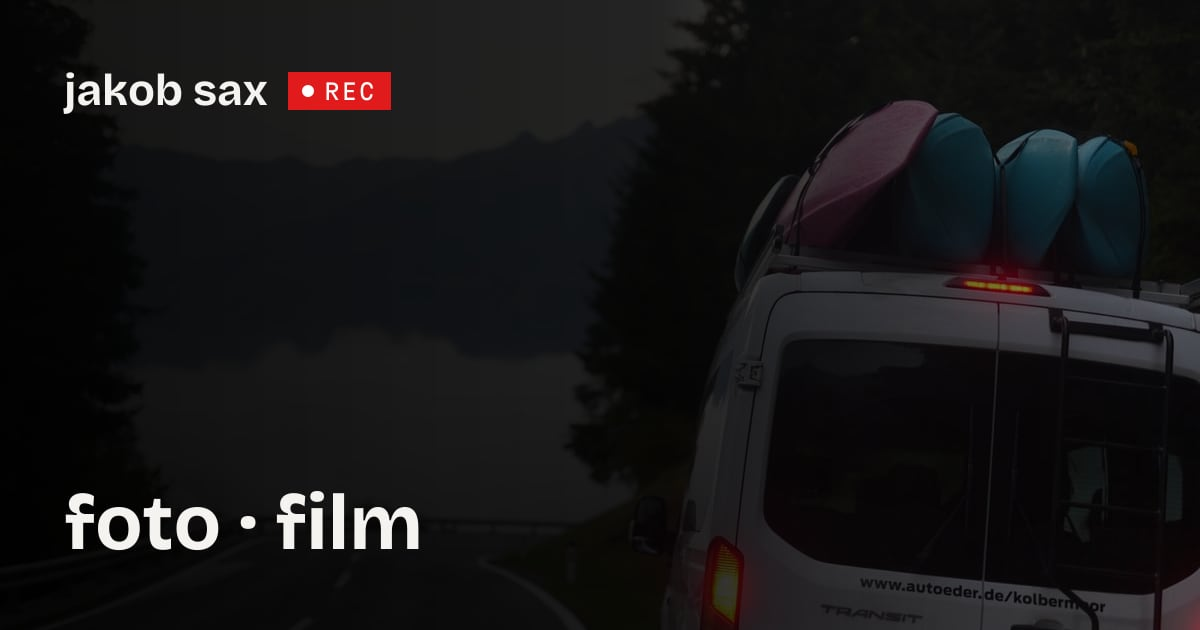
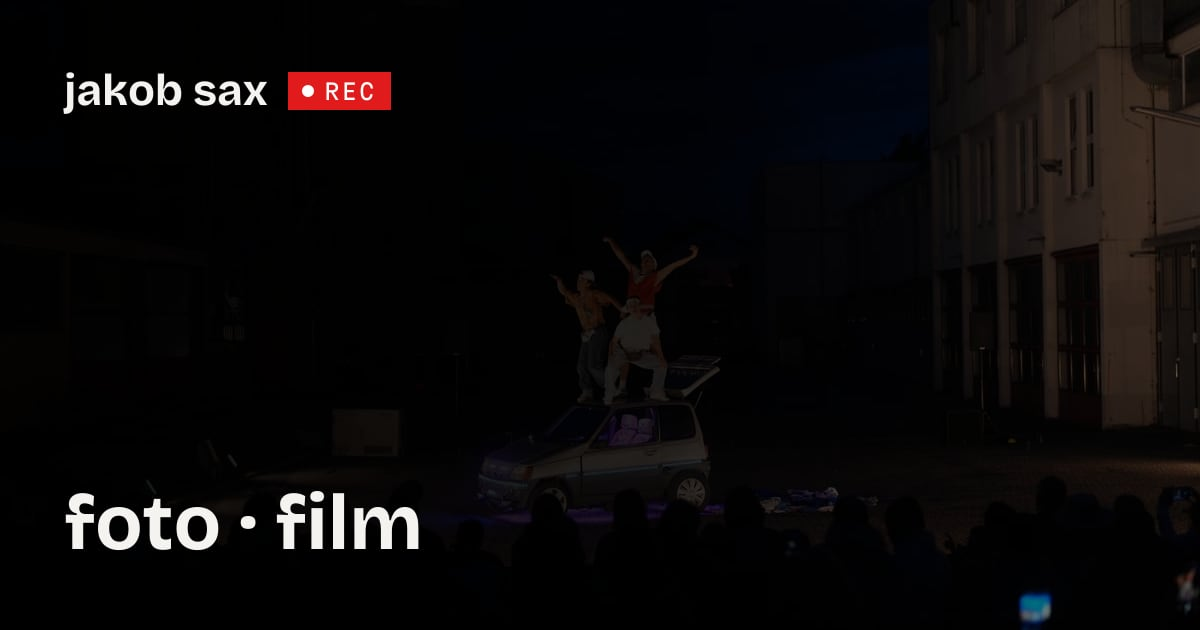
WiWaWo 2026: sechs Bilder ausgeblendet, neues Startseiten-Bild
Neues Feld `ausblenden` an Fotoarbeit; Bilder bleiben im Bucket.
HERO_ERSATZ -> tete-a-tete/01, WEGE.foto -> wiwawo-53/08, OG-Karte neu.

diff --git a/lib/content.ts b/lib/content.ts
@@ -44,14 +44,16 @@ export const HERO_ALT: string | null = null;
  * Eine schwarze Fläche ist als erster Eindruck einer Seite, die durch Bilder
  * überzeugen soll, das Schwächste, was es gibt. Gewählt nach drei Regeln
  * (UI-SPEC, „Bildbehandlung"): Querformat, keine erkennbaren Gesichter, trägt
- * auch hinter dem Schriftzug. Bei `wiwawo-53` erfüllt das nur Bild 06 (Bus an
- * der Bergstraße, Nebel im Tal).
+ * auch hinter dem Schriftzug. Bis 2026-10-15 war das der Bus an der
+ * Bergstraße (`wiwawo-53/06`) — den hat Jakob ausgeblendet. Seitdem SPPI bei
+ * Nacht: Querformat, dunkel, die Figuren klein und ohne erkennbare Gesichter.
  *
  * ⚠ Eine Wahl von Claude, **nicht von Jakob** — er entscheidet. Sobald
  * `hero/standbild` im Bucket liegt, hat das Vorrang, und dieser Wert ist
- * wirkungslos. `null` schaltet den Ersatz ab.
+ * wirkungslos. `null` schaltet den Ersatz ab. Ein ausgeblendetes Bild
+ * (`ausblenden`) wirkt hier nicht — dann bliebe die Startseite schwarz.
  */
-export const HERO_ERSATZ: string | null = "arbeiten/wiwawo-53/06";
+export const HERO_ERSATZ: string | null = "arbeiten/tete-a-tete/01";
 
 export const SITE = {
   /** Schriftzug und Wortmarke — bewusst kleingeschrieben (UI-SPEC, E7). */
@@ -72,7 +74,8 @@ export const SITE = {
  * zeigt eine dunkle Fläche mit ▶.
  */
 export const WEGE: { foto: string | null; film: string | null } = {
-  foto: "arbeiten/wiwawo-53/05",
+  /* Bis 2026-10-15 `wiwawo-53/05` (grünes Boot) — von Jakob ausgeblendet. */
+  foto: "arbeiten/wiwawo-53/08",
   film: null,
 };
 
@@ -108,7 +111,6 @@ export const HIGHLIGHTS: (string | null)[] = [
 export const FOTO_HERO: string[] = [
   "arbeiten/at-tension", // Cie. Dyptik — Körper fliegen über dem Publikum
   "arbeiten/welttheater-der-strasse", // Commando Percu — rotes Feuer
-  "arbeiten/wiwawo-53/06", // Bus an der Bergstraße, Nebel im Tal
   "arbeiten/tete-a-tete/01", // SPPI — Bühne bei Nacht, Querformat
   "arbeiten/welttheater-der-strasse/04", // Collectif Malunés — Trapez im Gegenlicht
   "arbeiten/wiwawo-52", // Boot in der Walze
@@ -160,6 +162,13 @@ export type Fotoarbeit = {
    * ohne Information über das Motiv.
    */
   alt?: Record<string, string>;
+  /**
+   * Bilder, die im Bucket liegen, aber **nicht auf die Seite** sollen —
+   * Namen wie bei `alt` (`"leitbild"`, `"01"`, …). Fehlt das Leitbild, wird
+   * das erste übrige Bild zum Startbild der Arbeit. Zum Wieder-Einblenden
+   * den Namen streichen; die Datei bleibt dafür im Bucket.
+   */
+  ausblenden?: string[];
 };
 
 /**
@@ -269,6 +278,10 @@ export const FOTOS: Fotoarbeit[] = [
       "05": "Kajakfahrer im grünen Boot mit rotem Paddel auf einem Fluss mit Kiesufer",
       "06": "Weißer Kleinbus mit Kajaks auf dem Dach an einer Bergstraße, im Tal liegt Nebel",
     },
+    /* Jakob am 2026-10-15 (über Jan): Gruppenfoto, Lagerfeuer, die drei
+       Boote im Wildwasser und den Bus „rausschmeißen". Bleiben 01, 07, 08;
+       Startbild ist damit der Wasserfall (01). */
+    ausblenden: ["leitbild", "02", "03", "04", "05", "06"],
   },
   {
     id: "wiwawo-52",

diff --git a/lib/arbeiten.test.ts b/lib/arbeiten.test.ts
@@ -1,7 +1,16 @@
 import { describe, expect, it, vi } from "vitest";
-import { FILME, FOTO_HERO, FOTOS, KATEGORIEN, type Fotoarbeit } from "./content";
+import {
+  FILME,
+  FOTO_HERO,
+  FOTOS,
+  HERO_ERSATZ,
+  HIGHLIGHTS,
+  KATEGORIEN,
+  WEGE,
+  type Fotoarbeit,
+} from "./content";
 import manifest from "./bilder-manifest.json";
-import { beschriftung, zielDesLinks } from "./arbeiten";
+import { beschriftung, fotosFuerHero, fotosFuerMosaik, zielDesLinks } from "./arbeiten";
 
 describe("Inhalte", () => {
   it("vergibt jede id nur einmal", () => {
@@ -41,6 +50,25 @@ describe("Fotoarbeiten", () => {
         expect(name, a.id).toMatch(/^(leitbild|\d{2})$/);
       }
     }
+  });
+
+  it("blendet nur Bilder aus, die es nach dem Schema gibt", () => {
+    for (const a of FOTOS) {
+      for (const name of a.ausblenden ?? []) {
+        expect(name, a.id).toMatch(/^(leitbild|\d{2})$/);
+      }
+    }
+  });
+
+  it("verweist auf der Startseite und im Hero auf kein ausgeblendetes Bild", () => {
+    /* Ein ausgeblendetes Bild fiele dort still weg — im Startseiten-Hero
+       bliebe dann eine schwarze Fläche. */
+    const sichtbar = new Set(fotosFuerMosaik().map((b) => b.schluessel));
+    const genannt = [HERO_ERSATZ, WEGE.foto, WEGE.film, ...HIGHLIGHTS, ...FOTO_HERO];
+    for (const k of genannt) {
+      if (k && k in manifest) expect(sichtbar.has(k), k).toBe(true);
+    }
+    expect(fotosFuerHero().length).toBe(FOTO_HERO.length);
   });
 
   it("gehört jede Arbeit zu einer bekannten Kategorie", () => {
@@ -150,6 +178,28 @@ describe("Was kein Bild hat, erscheint nicht", () => {
         (b) => b.schluessel,
       ),
     ).toEqual(["arbeiten/t", "arbeiten/f1"]);
+  });
+
+  it("lässt ausgeblendete Bilder weg, das erste übrige wird Startbild", async () => {
+    const { bilderDerArbeit, fotoarbeitenOhneBild } = await mitManifest({
+      "arbeiten/x": q,
+      "arbeiten/x/01": q,
+      "arbeiten/x/02": q,
+      "arbeiten/x/03": q,
+      "arbeiten/y": q,
+    });
+    const x: Fotoarbeit = {
+      id: "x",
+      kategorie: "paddeln",
+      titel: "X",
+      ausblenden: ["leitbild", "02"],
+    };
+    const bilder = bilderDerArbeit(x);
+    expect(bilder.map((b) => b.schluessel)).toEqual(["arbeiten/x/01", "arbeiten/x/03"]);
+    /* Gezählt wird, was zu sehen ist. */
+    expect(bilder[1].alt).toBe("X, Bild 2");
+    const y: Fotoarbeit = { id: "y", kategorie: "paddeln", titel: "Y", ausblenden: ["leitbild"] };
+    expect(fotoarbeitenOhneBild([x, y]).map((a) => a.id)).toEqual(["y"]);
   });
 
   it("beschriftet ein Bild mit seinem eigenen Titel, wenn Jakobs Liste einen nennt", async () => {

diff --git a/lib/arbeiten.ts b/lib/arbeiten.ts
@@ -80,7 +80,8 @@ export function bilderDerArbeit(arbeit: Fotoarbeit): Mosaikbild[] {
     liste.push({ name: b.schluessel.slice(b.schluessel.lastIndexOf("/") + 1), bild: b });
   }
 
-  return liste.map(({ name, bild }, i) => {
+  const aus = new Set(arbeit.ausblenden);
+  return liste.filter(({ name }) => !aus.has(name)).map(({ name, bild }, i) => {
     const szene = arbeit.alt?.[name];
     const titel = arbeit.bildtitel?.[name];
     const zeile = titel ? `${titel} – ${arbeit.titel}` : text;

diff --git a/AGENT-LOG.md b/AGENT-LOG.md
@@ -6,6 +6,33 @@ Erledigte kurzfristige Todos aus `TODO.md` werden hier verlinkt/dokumentiert, so
 
 ---
 
+## 2026-10-15 — Sechs Bilder von WiWaWo 2026 ausgeblendet, neues Startseiten-Bild
+
+Jakob (Screenshots über Jan): „kannst du bitte noch die 4 Bilder rausschmeißen", dazu „das hier
+auch" und „das auch". Am Kontaktbogen zugeordnet, alle aus `wiwawo-53`: Gruppenfoto
+(`leitbild`), Lagerfeuer (`02`), gelbes Boot in der Welle (`03`), grünes Boot senkrecht
+(`04`), grünes Boot am Kiesufer (`05`), Bus im Nebel (`06`). Es bleiben `01`, `07`, `08`, die
+drei Wasserfälle; Startbild der Arbeit ist jetzt `01`.
+
+- **Neues Feld `ausblenden`** an `Fotoarbeit` (`lib/content.ts`), ausgewertet in
+  `bilderDerArbeit()`. Die Dateien bleiben im Bucket, nichts gelöscht — so ist jedes Bild mit
+  einer Zeile wieder da, und die Nummern samt Alt-Texten verschieben sich nicht. In
+  `TECH-STACK.md` als Ausnahme zu „kein Bildfeld" begründet.
+- **Folgen auf der Startseite:** Der Bus war `HERO_ERSATZ` und der grüne Kajak `WEGE.foto` —
+  beide wären still weggefallen, das Hero wäre schwarz geblieben. Ersatz (Claudes Wahl, steht
+  bei Jakob in `TODO.md`): Hero = `tete-a-tete/01` (SPPI bei Nacht; Querformat, keine
+  erkennbaren Gesichter), Kachel „foto" = `wiwawo-53/08`. Vorschaukarte `public/og/start.jpg`
+  neu erzeugt (zeigte den Bus).
+- **`/foto`-Hero:** Bus raus, jetzt sieben statt acht Bilder.
+
+### Geprüft
+`npm test` (72, neu: `ausblenden` greift und zählt „Bild n" nach dem Sichtbaren; Startseite und
+Hero zeigen auf kein ausgeblendetes Bild; nur gültige Namen), Lint, Typecheck, `next build`.
+Im Dev-Server: Startseite zeigt SPPI im Hero und den Wasserfall in der Kachel, `/foto` enthält
+von `wiwawo-53` nur noch 01/07/08, keine Skriptfehler.
+
+---
+
 ## 2026-10-15 — „Tödliches Gold", STRG_F und Tagesthemen im Bucket und online
 
 Lokal bei Jan (mit `.dev.vars`) die beiden offenen Upload-Punkte aus `TODO.md` erledigt, alle

diff --git a/TODO.md b/TODO.md
@@ -108,8 +108,9 @@ hängt:
   und `WEGE.foto` in `lib/content.ts` sind eine Vorauswahl von Claude. Leere Plätze zeigen
   „Highlight folgt".
 - [ ] **Jakob: Foto für die Startseite bestätigen oder tauschen.** Bis ein Hero-Video da ist,
-  trägt `HERO_ERSATZ` in `lib/content.ts` (derzeit `arbeiten/wiwawo-53/06`, Bus im Nebel) die
-  Startseite. Von Claude gewählt, nicht von Jakob.
+  trägt `HERO_ERSATZ` in `lib/content.ts` (seit 2026-10-15 `arbeiten/tete-a-tete/01`, SPPI bei
+  Nacht — der Bus ist ausgeblendet) die Startseite. Von Claude gewählt, nicht von Jakob. Ebenso
+  das Bild der Kachel „foto" (`WEGE.foto`, jetzt `wiwawo-53/08`, Kajak im Wasserfall).
 - [ ] **Vorschaukarte mit Foto:** nach dem nächsten `npm run medien` einmal `npm run og` und
   `public/og/start.jpg` committen. In der Cloud-Sitzung war die Medien-Domain gesperrt.
 

diff --git a/TECH-STACK.md b/TECH-STACK.md
@@ -158,6 +158,12 @@ Es gibt **kein Bildfeld in `content.ts`** — Konvention statt Konfiguration. Ei
 `image` wäre eine zweite Stelle mit demselben Namen und damit eine Stelle, an der er falsch
 stehen kann.
 
+**Ausnahme: `ausblenden`** (seit 2026-10-15). Soll ein Bild nicht mehr auf die Seite, aber im
+Bucket bleiben, kommt sein Name (`"leitbild"`, `"01"`, …) in `ausblenden` der Arbeit. Fehlt
+dadurch das Leitbild, wird das erste übrige Bild zum Startbild. Grund: Löschen im Bucket ist
+endgültig, und Umbenennen verschiebt alle Nummern samt Alt-Texten. Ein Test stellt sicher, dass
+Startseite und Hero auf kein ausgeblendetes Bild zeigen.
+
 ⚠ **Führende Null nicht vergessen** (`01`, nicht `1`). Sortiert wird nach Dateiname; ohne sie
 stünde `10` vor `2`.
 
